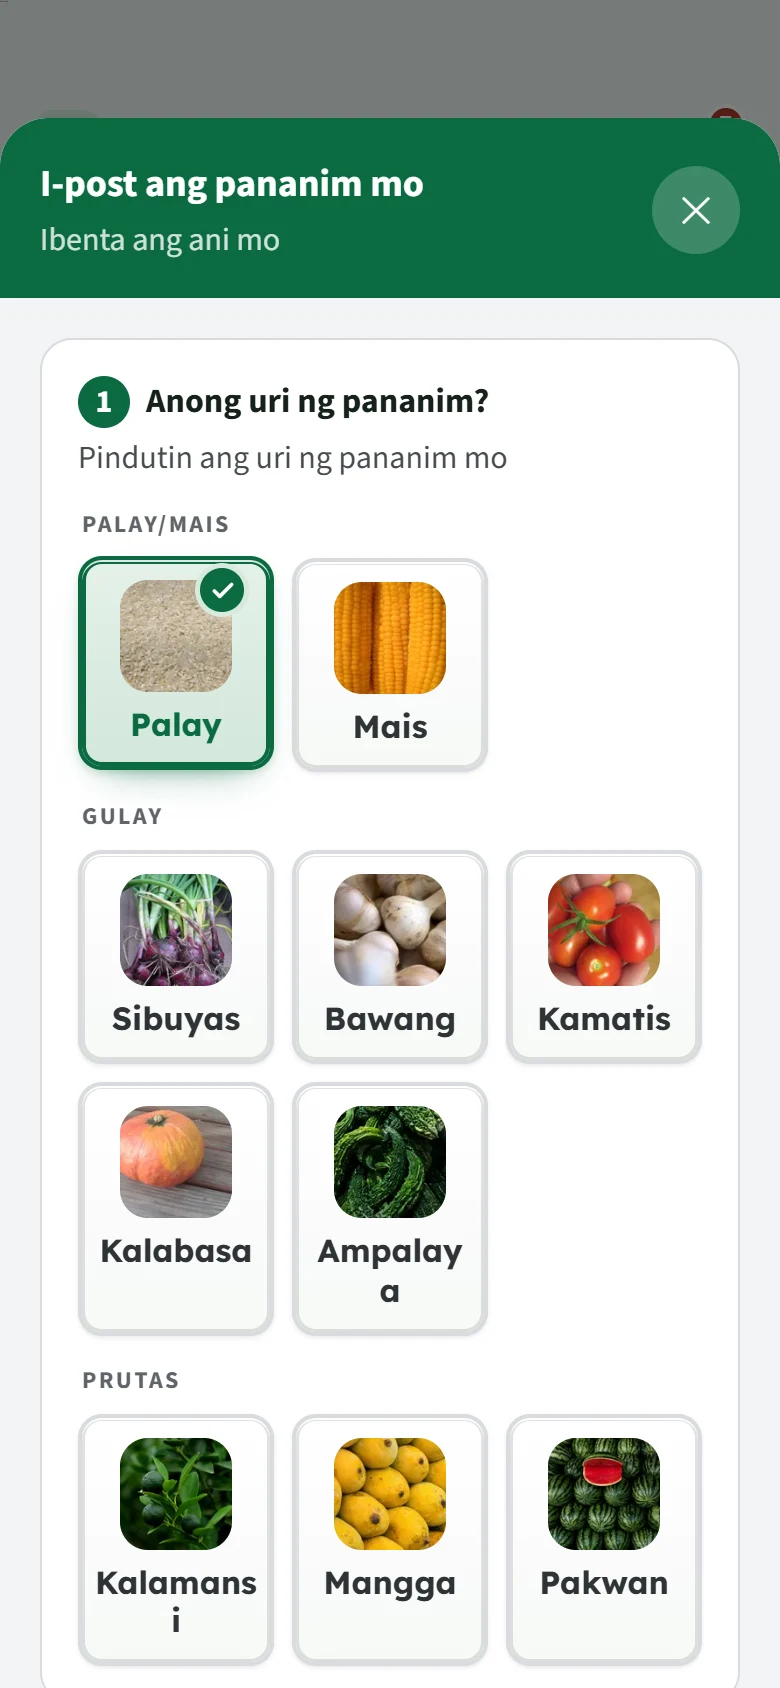
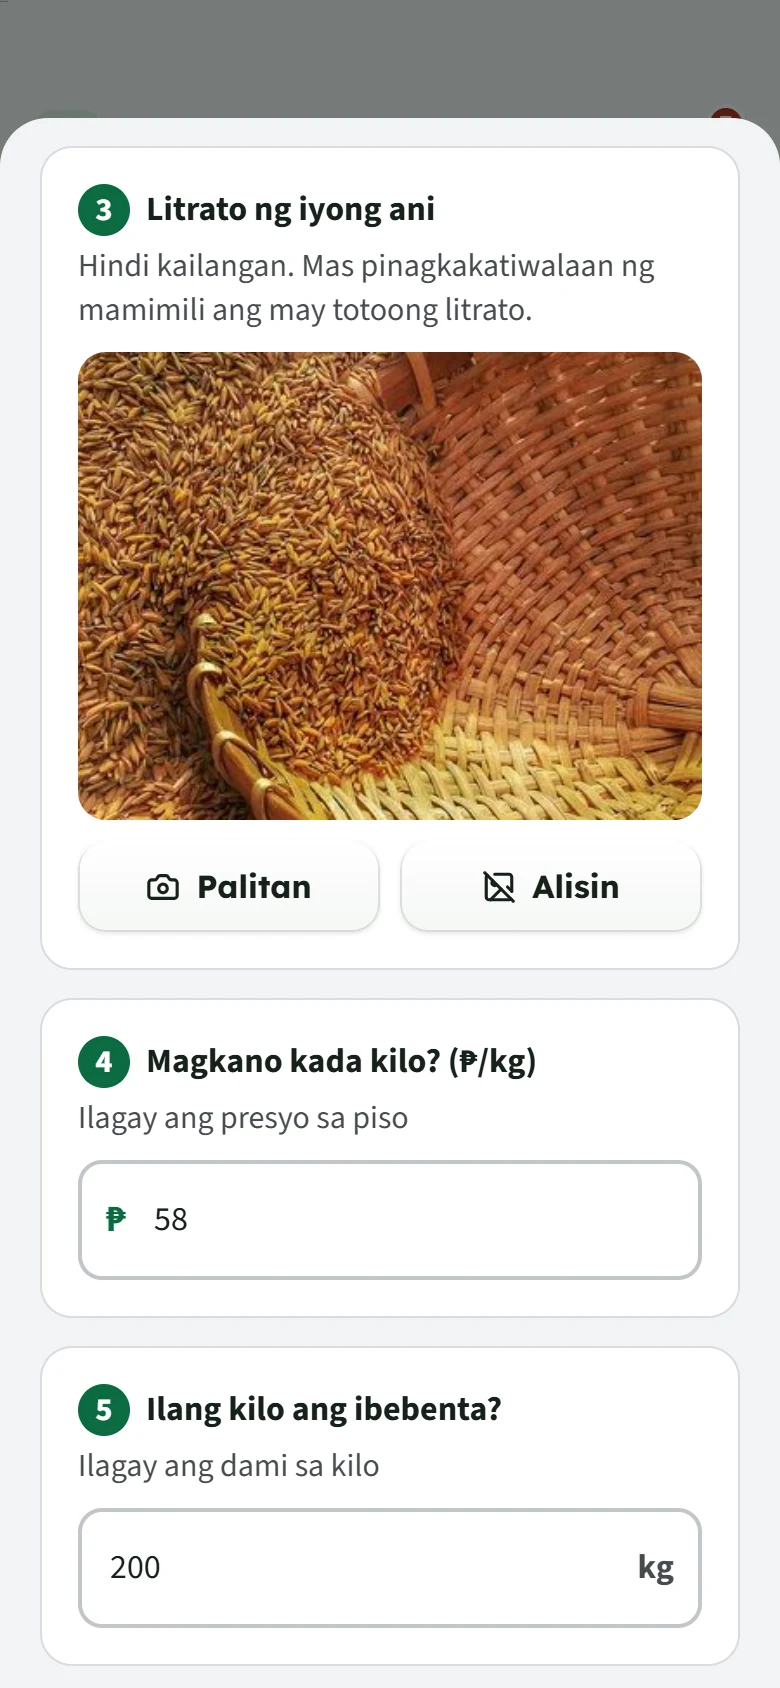
Website: Made for the field as a full-width bento; filled-in post-a-harvest screen

diff --git a/site/index.html b/site/index.html
@@ -279,13 +279,56 @@ a.play:active { transform: scale(.97); transition-duration: 90ms; }
 .card-shot .chip { top: -26px; right: -22px; }
 
 /* Made for the field */
-.grid4 { margin-top: 36px; display: grid; grid-template-columns: repeat(4, 1fr); gap: 14px; }
-.feat { padding: 22px 20px 24px; border-radius: 20px; background: var(--card); box-shadow: 0 0 0 1px rgba(22,33,27,.06), 0 18px 40px -32px rgba(22,33,27,.4); }
-.feat-ico { width: 42px; height: 42px; border-radius: 12px; display: grid; place-items: center; color: #fff;
+/* ── Made for the field: a bento of the four promises ──
+   Five tiles that fill the band from edge to edge. Each promise shows itself
+   (big type, both languages, no signal, a shield), and the people it is made
+   for get the dark tile. Nothing here is a button, so nothing reacts to the
+   pointer. */
+.bento { margin-top: 40px; display: grid; grid-template-columns: repeat(4, minmax(0, 1fr)); grid-auto-rows: minmax(300px, auto); gap: 16px; }
+.tile {
+  position: relative; isolation: isolate; overflow: hidden; display: flex; flex-direction: column; justify-content: space-between; gap: 28px;
+  padding: 28px 28px 30px; border-radius: 28px; background: var(--paper); box-shadow: inset 0 0 0 1px rgba(22,33,27,.05);
+}
+.tile-wide { grid-column: span 2; }
+.tile h3 { font: 700 21px/1.25 var(--font-display); letter-spacing: -.02em; }
+.tile p { margin-top: 6px; max-width: 42ch; font-size: 16px; line-height: 1.55; color: var(--muted); }
+.t-vis { flex: 1; display: flex; flex-direction: column; align-items: flex-start; justify-content: center; }
+
+/* Easy to read: a price as the app shows it, at the size it shows it. */
+.t-read { gap: 4px; }
+.t-read-name { font: 600 20px/1.2 var(--font-display); color: var(--text); }
+.t-read-price { font: 700 clamp(56px, 6vw, 76px)/1 var(--font-display); letter-spacing: -.045em; color: var(--tanim); font-variant-numeric: tabular-nums; }
+.t-read-price small { margin-left: 6px; font-size: .3em; font-weight: 600; letter-spacing: 0; color: var(--muted); }
+.t-pill { margin-top: 12px; padding: 6px 12px; border-radius: 999px; background: #FBEAE8; color: var(--down); font: 600 15px/1 var(--font-display); }
+
+/* English and Tagalog: the switch, and words from the app in both. */
+.t-lang { gap: 20px; }
+.t-switch { display: inline-grid; grid-template-columns: 1fr 1fr; padding: 5px; border-radius: 999px; background: var(--card); box-shadow: inset 0 0 0 1px var(--line); font: 600 17px/1 var(--font-display); }
+.t-switch span { min-width: 60px; padding: 11px 16px; border-radius: 999px; text-align: center; color: var(--muted); }
+.t-switch .on { background: var(--tanim); color: #fff; box-shadow: 0 2px 6px -2px rgba(11,107,65,.5); }
+.t-pairs { display: grid; gap: 8px; }
+.t-pairs > span { display: flex; flex-wrap: wrap; align-items: center; gap: 4px 12px; font: 700 clamp(24px, 2.4vw, 30px)/1.15 var(--font-display); letter-spacing: -.02em; }
+.t-pairs svg { flex-shrink: 0; color: var(--faint); }
+.t-pairs b:last-child { color: var(--tanim); }
+
+/* Offline and private: one large mark each, and the word that proves it. */
+.t-icon { gap: 16px; }
+.t-disc { width: 76px; height: 76px; border-radius: 24px; display: grid; place-items: center; color: #fff;
   background: linear-gradient(180deg, #16895B 0%, var(--tanim) 55%, #07522F 100%);
-  box-shadow: inset 0 1px 0 rgba(255,255,255,.24), inset 0 -1px 0 rgba(0,0,0,.18), 0 8px 16px -8px rgba(11,107,65,.6); }
-.feat h3 { margin-top: 16px; font: 700 18px/1.25 var(--font-display); letter-spacing: -.015em; }
-.feat p { margin-top: 6px; font-size: 16px; line-height: 1.5; color: var(--muted); }
+  box-shadow: inset 0 1px 0 rgba(255,255,255,.24), inset 0 -1px 0 rgba(0,0,0,.18), 0 14px 26px -12px rgba(11,107,65,.6); }
+.t-chip { display: inline-flex; align-items: center; gap: 8px; padding: 8px 14px 8px 10px; border-radius: 999px; background: var(--card);
+  box-shadow: 0 0 0 1px rgba(22,33,27,.06), 0 8px 18px -12px rgba(22,33,27,.35); font: 600 15px/1.2 var(--font-display); color: var(--ink); }
+.t-chip svg { flex-shrink: 0; color: var(--tanim); }
+
+/* Who it is for: the dark tile, the age in palay gold, the leaf behind. */
+.tile-ink { color: var(--on-ink); box-shadow: none;
+  background: radial-gradient(70% 80% at 88% 8%, rgba(242,179,44,.16), rgba(242,179,44,0) 70%), linear-gradient(160deg, #1C2D24 0%, #15201A 60%, #101814 100%); }
+.tile-ink::before { content: ""; position: absolute; z-index: -1; right: -70px; bottom: -90px; width: 320px; height: 320px; pointer-events: none;
+  background: url("assets/leaf-mask.png") center / contain no-repeat; opacity: .08; transform: rotate(-14deg); }
+.tile-ink p { color: var(--on-ink-2); }
+.t-age { font: 700 clamp(96px, 10vw, 132px)/.9 var(--font-display); letter-spacing: -.06em; color: var(--palay); }
+.t-age span { margin-left: .04em; font-size: .62em; color: var(--on-ink); }
+
 .center { text-align: center; }
 .center .lead { margin-left: auto; margin-right: auto; }
 
@@ -409,7 +452,7 @@ a.play:active { transform: scale(.97); transition-duration: 90ms; }
   .stats { grid-template-columns: 1fr 1fr; }
   .stat:nth-child(3) { box-shadow: 0 -1px 0 var(--line); }
   .stat:nth-child(4) { box-shadow: -1px 0 0 var(--line), 0 -1px 0 var(--line); }
-  .grid4 { grid-template-columns: 1fr 1fr; }
+  .bento { grid-template-columns: repeat(2, minmax(0, 1fr)); grid-auto-rows: minmax(270px, auto); }
   /* One column: what it is, the phone, then the steps under it, so a
      tap on a step changes the phone just above. */
   .how, .how.flip { grid-template-columns: 1fr; grid-template-areas: "head" "visual" "steps"; max-width: 600px; margin: 0 auto; }
@@ -479,11 +522,17 @@ a.play:active { transform: scale(.97); transition-duration: 90ms; }
   .card-shot .chip { position: absolute; top: auto; bottom: -30px; right: 10px; margin: 0; }
 
   /* "Built for": one compact row each, the icon beside the words. */
-  .grid4 { grid-template-columns: 1fr; gap: 10px; margin-top: 32px; }
-  .feat { display: grid; grid-template-columns: 44px 1fr; column-gap: 16px; align-items: start; padding: 18px 18px 20px; border-radius: 20px; }
-  .feat-ico { grid-row: span 2; width: 44px; height: 44px; border-radius: 13px; }
-  .feat h3 { margin-top: 2px; font-size: 18px; }
-  .feat p { margin-top: 4px; font-size: 16px; }
+  .bento { grid-template-columns: 1fr; grid-auto-rows: auto; gap: 12px; margin-top: 32px; }
+  .tile-wide { grid-column: auto; }
+  .tile { gap: 22px; padding: 22px 22px 24px; border-radius: 24px; }
+  .tile h3 { font-size: 19px; }
+  .t-read-price { font-size: 56px; }
+  .t-age { font-size: 104px; }
+  .tile:not(.tile-wide) { flex-direction: row; align-items: flex-start; gap: 18px; }
+  .tile:not(.tile-wide) .t-vis { flex: none; }
+  .tile:not(.tile-wide) .t-disc { width: 56px; height: 56px; border-radius: 18px; }
+  .tile:not(.tile-wide) .t-disc svg { width: 28px; height: 28px; }
+  .tile:not(.tile-wide) .t-chip { display: none; }
 
   .how-visual .phone { --pw: 210px; }
   .how-steps { margin-top: 22px; }
@@ -752,16 +801,51 @@ main, .hdr-row { transition: opacity 140ms ease, filter 140ms ease; }
   </section>
 
   <!-- ── Made for the field ── -->
-  <section class="sec white">
-    <div class="wrap center">
-      <p class="tag reveal" data-i18n="mf_tag">Made for the field</p>
-      <h2 class="reveal" style="--i:1" data-i18n="mf_h">Built for the people who use it</h2>
-      <p class="lead reveal" style="--i:2" data-i18n="mf_lead">Farmers in Nueva Ecija, many of them past fifty, on the phones they already have.</p>
-      <div class="grid4" style="text-align:left">
-        <div class="feat reveal" style="--i:2"><span class="feat-ico" aria-hidden="true"><svg width="22" height="22" viewBox="0 0 24 24" fill="none" stroke="currentColor" stroke-width="2.4" stroke-linecap="round" stroke-linejoin="round"><path d="M4 7V4h16v3"/><path d="M9 20h6"/><path d="M12 4v16"/></svg></span><h3 data-i18n="mf_1">Easy to read</h3><p data-i18n="mf_1d">Large text and large buttons, one question at a time.</p></div>
-        <div class="feat reveal" style="--i:3"><span class="feat-ico" aria-hidden="true"><svg width="22" height="22" viewBox="0 0 24 24" fill="none" stroke="currentColor" stroke-width="2.4" stroke-linecap="round" stroke-linejoin="round"><path d="m5 8 6 6"/><path d="m4 14 6-6 2-3"/><path d="M2 5h12"/><path d="M7 2h1"/><path d="m22 22-5-10-5 10"/><path d="M14 18h6"/></svg></span><h3 data-i18n="mf_2">English and Tagalog</h3><p data-i18n="mf_2d">Switch any time, from the very first screen.</p></div>
-        <div class="feat reveal" style="--i:4"><span class="feat-ico" aria-hidden="true"><svg width="22" height="22" viewBox="0 0 24 24" fill="none" stroke="currentColor" stroke-width="2.4" stroke-linecap="round" stroke-linejoin="round"><path d="M12 20h.01"/><path d="M8.5 16.43a5 5 0 0 1 7 0"/><path d="M5 12.86a10 10 0 0 1 5.17-2.69"/><path d="M19 12.86a10 10 0 0 0-2-1.52"/><path d="M2 8.82a15 15 0 0 1 4.18-2.64"/><path d="M22 8.82a15 15 0 0 0-11.29-3.76"/><path d="m2 2 20 20"/></svg></span><h3 data-i18n="mf_3">Works offline</h3><p data-i18n="mf_3d">Prices, their history and the forecasts are inside the app.</p></div>
-        <div class="feat reveal" style="--i:5"><span class="feat-ico" aria-hidden="true"><svg width="22" height="22" viewBox="0 0 24 24" fill="none" stroke="currentColor" stroke-width="2.4" stroke-linecap="round" stroke-linejoin="round"><path d="M20 13c0 5-3.5 7.5-7.66 8.95a1 1 0 0 1-.67-.01C7.5 20.5 4 18 4 13V6a1 1 0 0 1 1-1c2 0 4.5-1.2 6.24-2.72a1.17 1.17 0 0 1 1.52 0C14.51 3.81 17 5 19 5a1 1 0 0 1 1 1z"/><path d="m9 12 2 2 4-4"/></svg></span><h3 data-i18n="mf_4">Private by default</h3><p data-i18n="mf_4d">No ads, and we never sell your information.</p></div>
+  <section class="sec white" id="field">
+    <div class="wrap">
+      <div class="center">
+        <p class="tag reveal" data-i18n="mf_tag">Made for the field</p>
+        <h2 class="reveal" style="--i:1" data-i18n="mf_h">Built for the people who use it</h2>
+      </div>
+      <!-- Five tiles, edge to edge: each promise shows itself. The pictures
+           in them are decoration; the words under them say it all. -->
+      <div class="bento">
+        <article class="tile tile-wide reveal" style="--i:2">
+          <div class="t-vis t-read" aria-hidden="true">
+            <span class="t-read-name">Special Rice</span>
+            <span class="t-read-price">₱57.20<small>/kg</small></span>
+            <span class="t-pill">−3.2%</span>
+          </div>
+          <div><h3 data-i18n="mf_1">Easy to read</h3><p data-i18n="mf_1d">Large text and large buttons, one question at a time.</p></div>
+        </article>
+        <article class="tile tile-wide reveal" style="--i:3">
+          <div class="t-vis t-lang" aria-hidden="true">
+            <span class="t-switch"><span>EN</span><span class="on">TL</span></span>
+            <span class="t-pairs">
+              <span><b lang="en">Prices</b><svg width="22" height="22" viewBox="0 0 24 24" fill="none" stroke="currentColor" stroke-width="2.4" stroke-linecap="round" stroke-linejoin="round"><path d="M5 12h14"/><path d="m13 6 6 6-6 6"/></svg><b lang="tl">Presyo</b></span>
+              <span><b lang="en">Sell now</b><svg width="22" height="22" viewBox="0 0 24 24" fill="none" stroke="currentColor" stroke-width="2.4" stroke-linecap="round" stroke-linejoin="round"><path d="M5 12h14"/><path d="m13 6 6 6-6 6"/></svg><b lang="tl">Ibenta na</b></span>
+            </span>
+          </div>
+          <div><h3 data-i18n="mf_2">English and Tagalog</h3><p data-i18n="mf_2d">Switch any time, from the very first screen.</p></div>
+        </article>
+        <article class="tile reveal" style="--i:4">
+          <div class="t-vis t-icon" aria-hidden="true">
+            <span class="t-disc"><svg width="36" height="36" viewBox="0 0 24 24" fill="none" stroke="currentColor" stroke-width="2.2" stroke-linecap="round" stroke-linejoin="round"><path d="M12 20h.01"/><path d="M8.5 16.43a5 5 0 0 1 7 0"/><path d="M5 12.86a10 10 0 0 1 5.17-2.69"/><path d="M19 12.86a10 10 0 0 0-2-1.52"/><path d="M2 8.82a15 15 0 0 1 4.18-2.64"/><path d="M22 8.82a15 15 0 0 0-11.29-3.76"/><path d="m2 2 20 20"/></svg></span>
+            <span class="t-chip"><svg width="18" height="18" viewBox="0 0 24 24" fill="none" stroke="currentColor" stroke-width="3" stroke-linecap="round" stroke-linejoin="round"><path d="M20 6 9 17l-5-5"/></svg><span data-i18n="rc_chip">Saved offline</span></span>
+          </div>
+          <div><h3 data-i18n="mf_3">Works offline</h3><p data-i18n="mf_3d">Prices, their history and the forecasts are inside the app.</p></div>
+        </article>
+        <article class="tile reveal" style="--i:5">
+          <div class="t-vis t-icon" aria-hidden="true">
+            <span class="t-disc"><svg width="36" height="36" viewBox="0 0 24 24" fill="none" stroke="currentColor" stroke-width="2.2" stroke-linecap="round" stroke-linejoin="round"><path d="M20 13c0 5-3.5 7.5-7.66 8.95a1 1 0 0 1-.67-.01C7.5 20.5 4 18 4 13V6a1 1 0 0 1 1-1c2 0 4.5-1.2 6.24-2.72a1.17 1.17 0 0 1 1.52 0C14.51 3.81 17 5 19 5a1 1 0 0 1 1 1z"/><path d="m9 12 2 2 4-4"/></svg></span>
+            <span class="t-chip"><svg width="18" height="18" viewBox="0 0 24 24" fill="none" stroke="currentColor" stroke-width="2.6" stroke-linecap="round" stroke-linejoin="round"><circle cx="12" cy="12" r="10"/><path d="m4.9 4.9 14.2 14.2"/></svg><span data-i18n="mf_noads">No ads</span></span>
+          </div>
+          <div><h3 data-i18n="mf_4">Private by default</h3><p data-i18n="mf_4d">No ads, and we never sell your information.</p></div>
+        </article>
+        <article class="tile tile-wide tile-ink reveal" style="--i:6">
+          <div class="t-vis t-age" aria-hidden="true">50<span>+</span></div>
+          <div><h3 data-i18n="mf_5">For farmers past fifty</h3><p data-i18n="mf_lead">Farmers in Nueva Ecija, many of them past fifty, on the phones they already have.</p></div>
+        </article>
       </div>
     </div>
   </section>
@@ -803,7 +887,7 @@ main, .hdr-row { transition: opacity 140ms ease, filter 140ms ease; }
             <img class="how-shot" data-shot="farmer-price-sheet" src="assets/screens/farmer-price-sheet.webp" width="390" height="844" loading="lazy" decoding="async" aria-hidden="true"
               alt="A crop's price, its change from the month before, and its chart." data-i18n-alt="alt_sheet_2">
             <img class="how-shot" data-shot="farmer-post" src="assets/screens/farmer-post.webp" width="390" height="844" loading="lazy" decoding="async" aria-hidden="true"
-              alt="Post your crops: the type of crop, with Rice chosen." data-i18n-alt="alt_post">
+              alt="Post your crops, filled in: a photo of the rice harvest, ₱58 a kilo and 200 kilos." data-i18n-alt="alt_post">
             <div class="island" aria-hidden="true"></div>
           </div>
         </div>
@@ -945,6 +1029,7 @@ main, .hdr-row { transition: opacity 140ms ease, filter 140ms ease; }
       mf_2: "English and Tagalog", mf_2d: "Switch any time, from the very first screen.",
       mf_3: "Works offline", mf_3d: "Prices, their history and the forecasts are inside the app.",
       mf_4: "Private by default", mf_4d: "No ads, and we never sell your information.",
+      mf_5: "For farmers past fifty", mf_noads: "No ads",
       hf_tag: "How it works · Farmers", hf_h: "From your field to a fair price", hf_lead: "Three steps. Tap one to see it in the app.",
       hf_switch: "Buying? How it works for buyers",
       hf_1: "Create an account", hf_1d: "With your CP number or Gmail. Choose Farmer.",
@@ -972,7 +1057,7 @@ main, .hdr-row { transition: opacity 140ms ease, filter 140ms ease; }
       alt_profit: "The Your profit card: estimated and final profit, and ₱13,000 spent on rice.",
       alt_role_farmer: "Who are you? with Farmer chosen: post listings, track expenses, and monitor crop market prices.",
       alt_role_buyer: "Who are you? with Buyer chosen: browse listings, compare prices, and connect with local farmers.",
-      alt_post: "Post your crops: the type of crop, with Rice chosen.",
+      alt_post: "Post your crops, filled in: a photo of the rice harvest, ₱58 a kilo and 200 kilos.",
       alt_cart: "My Cart: Ampalaya and Mango from two farmers, ₱140 in all, and Confirm Order.",
       faq: [
         ["Is AniSense free?", "Yes. There is no paid account and no ads."],
@@ -1020,6 +1105,7 @@ main, .hdr-row { transition: opacity 140ms ease, filter 140ms ease; }
       mf_2: "Ingles at Tagalog", mf_2d: "Puwedeng palitan kahit kailan, mula sa unang screen.",
       mf_3: "Gumagana offline", mf_3d: "Nasa loob ng app ang presyo, ang kasaysayan nito, at ang forecast.",
       mf_4: "Pribado ang datos mo", mf_4d: "Walang ads, at hindi namin ibinebenta ang impormasyon mo.",
+      mf_5: "Para sa magsasakang lampas singkuwenta", mf_noads: "Walang ads",
       hf_tag: "Paano gamitin · Magsasaka", hf_h: "Mula sa bukid mo, sa patas na presyo", hf_lead: "Tatlong hakbang. Pindutin ang isa para makita ito sa app.",
       hf_switch: "Mamimili ka? Paano gamitin para sa mamimili",
       hf_1: "Gumawa ng account", hf_1d: "Gamit ang CP number o Gmail mo. Piliin ang Magsasaka.",
@@ -1047,7 +1133,7 @@ main, .hdr-row { transition: opacity 140ms ease, filter 140ms ease; }
       alt_profit: "Ang card na Ang kita mo: tantiyang kita, totoong kita, at ₱13,000 na nagastos sa palay.",
       alt_role_farmer: "Sino ka? Napili ang Magsasaka: mag-post ng paninda, subaybayan ang gastos, at bantayan ang presyo ng pananim.",
       alt_role_buyer: "Sino ka? Napili ang Mamimili: tingnan ang mga paninda, ikumpara ang presyo, at makipag-ugnayan sa mga magsasaka.",
-      alt_post: "I-post ang pananim mo: ang uri ng pananim, napili ang Palay.",
+      alt_post: "I-post ang pananim mo, may laman na: litrato ng aning palay, ₱58 kada kilo at 200 kilo.",
       alt_cart: "Aking Cart: Ampalaya at Mango mula sa dalawang magsasaka, ₱140 lahat, at Kumpirmahin ang Order.",
       faq: [
         ["Libre ba ang AniSense?", "Oo. Walang bayad na account at walang ads."],
